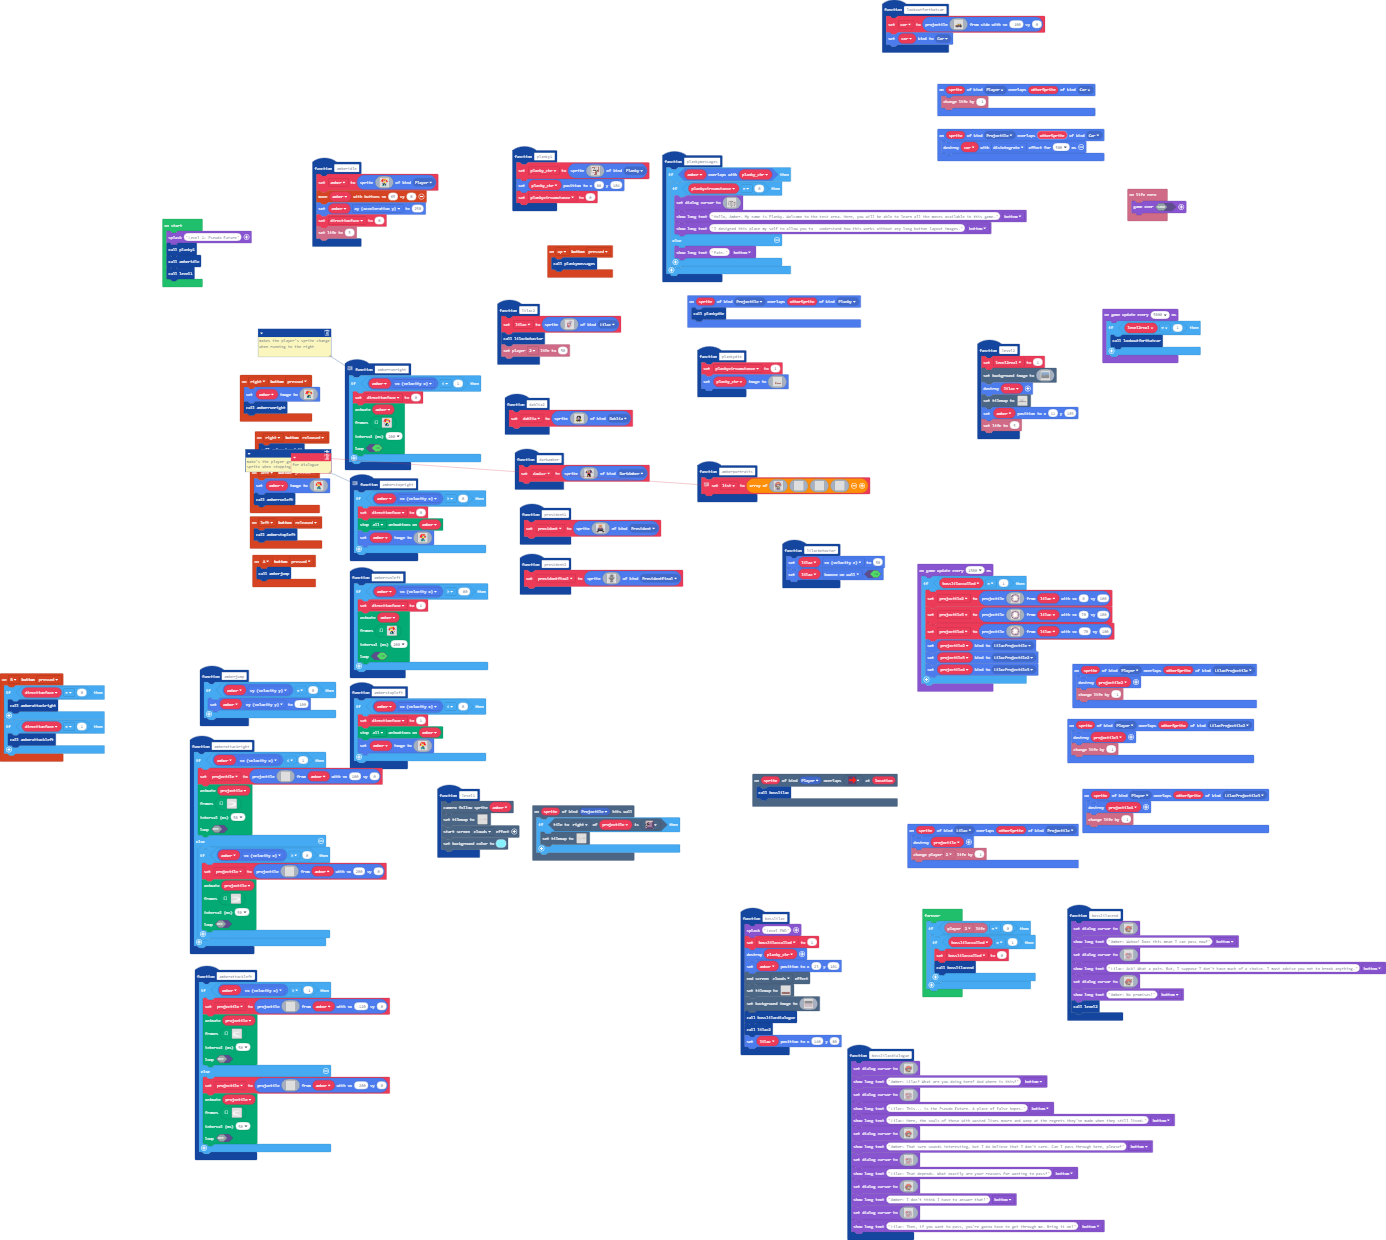
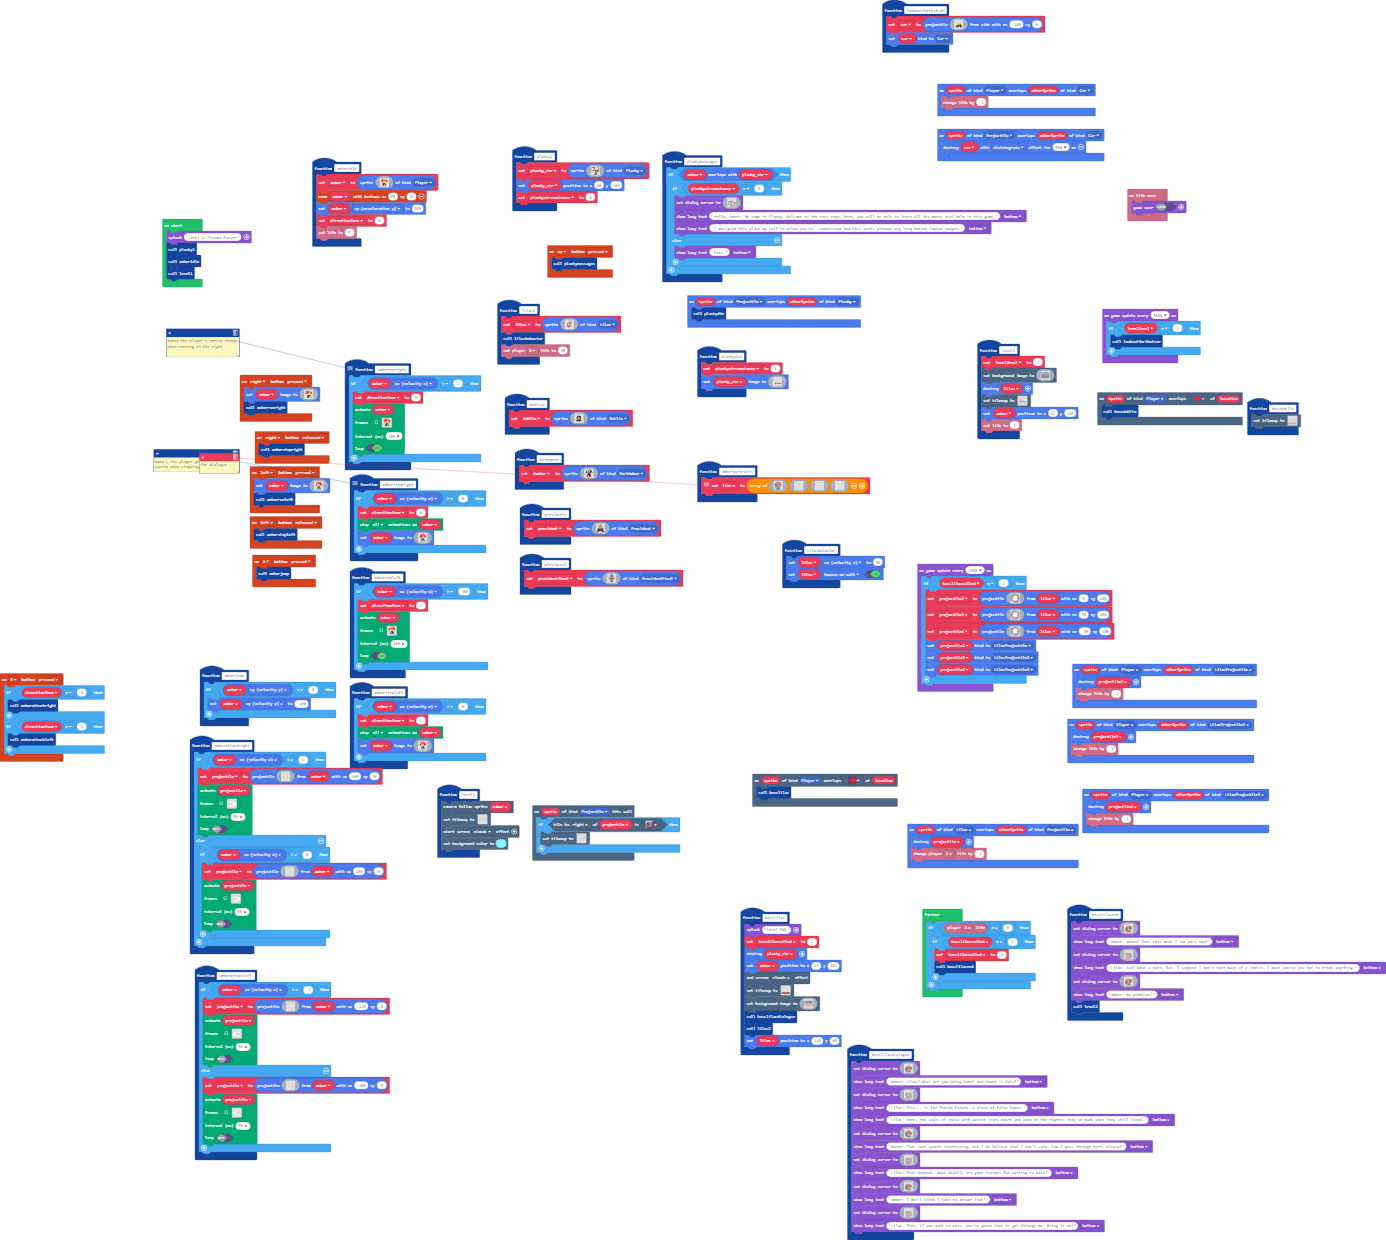
Update pxt.json, main.blocks, main.ts

diff --git a/main.ts b/main.ts
@@ -12,63 +12,6 @@ namespace SpriteKind {
 }
 namespace myTiles {
     //% blockIdentity=images._tile
-    export const tile0 = img`
-. . . . . . . . . . . . . . . . 
-. . . . . . . . . . . . . . . . 
-. . . . . . . . . . . . . . . . 
-. . . . . . . . . . . . . . . . 
-. . . . . . . . . . . . . . . . 
-. . . . . . . . . . . . . . . . 
-. . . . . . . . . . . . . . . . 
-. . . . . . . . . . . . . . . . 
-. . . . . . . . . . . . . . . . 
-. . . . . . . . . . . . . . . . 
-. . . . . . . . . . . . . . . . 
-. . . . . . . . . . . . . . . . 
-. . . . . . . . . . . . . . . . 
-. . . . . . . . . . . . . . . . 
-. . . . . . . . . . . . . . . . 
-. . . . . . . . . . . . . . . . 
-`
-    //% blockIdentity=images._tile
-    export const tile1 = img`
-5 5 5 5 5 5 5 5 5 5 5 5 5 5 5 5 
-5 5 5 7 7 7 6 6 7 7 7 7 7 7 5 5 
-5 6 7 6 c 6 c c 6 7 c 6 c 6 7 7 
-7 c 6 c e c e e c 6 c c e c 6 7 
-6 c c e e e e e e c e e e e c 6 
-c e e e e e e d e e e e e e e c 
-e e e e e e e f e e e e e e e e 
-e e d e e e e e e e e e d e e e 
-e e f e e e e e e e e e f e e e 
-e e e e e e e e e e e e e e e e 
-e e e e e e e e e e e e e e e e 
-e e e e e d e e e e e e e e e e 
-e e e e e f e e e e e e e e e e 
-e e e e e e e e e e d e e e e e 
-e e e e e e e e e e f e e e e e 
-e e e e e e e e e e e e e e e e 
-`
-    //% blockIdentity=images._tile
-    export const tile3 = img`
-e e e e d e e e e e e e e e e e 
-e e e e f e e e e e e e e d e e 
-e e e e e e e e e e e e e f e e 
-e e e e e e e e e e e e e e e e 
-e e e e e e e e e e e e e e e e 
-e e e e e e e d e e e e e e e e 
-e e e e e e e f e e e e e e e e 
-e e d e e e e e e e e e d e e e 
-e e f e e e e e e e e e f e e e 
-e e e e e e e e e e e e e e e e 
-e e e e e e e e e e e e e e e e 
-e e e e e d e e e e e e e e e e 
-e e e e e f e e e e e e e e e e 
-e e e e e e e e e e d e e e e e 
-e e e e e e e e e e f e e e e e 
-e e e e e e e e e e e e e e e e 
-`
-    //% blockIdentity=images._tile
     export const tile5 = img`
 c c c c c c c c c c c c c c c c 
 c c c c c c c c c c c c c c c c 
@@ -372,6 +315,82 @@ f f f f f f f f f f f f f f f f
 . . . . . . . . . 2 . . . . . . 
 . . . . . . . . . . . . . . . . 
 `
+    //% blockIdentity=images._tile
+    export const tile0 = img`
+. . . . . . . . . . . . . . . . 
+. . . . . . . . . . . . . . . . 
+. . . . . . . . . . . . . . . . 
+. . . . . . . . . . . . . . . . 
+. . . . . . . . . . . . . . . . 
+. . . . . . . . . . . . . . . . 
+. . . . . . . . . . . . . . . . 
+. . . . . . . . . . . . . . . . 
+. . . . . . . . . . . . . . . . 
+. . . . . . . . . . . . . . . . 
+. . . . . . . . . . . . . . . . 
+. . . . . . . . . . . . . . . . 
+. . . . . . . . . . . . . . . . 
+. . . . . . . . . . . . . . . . 
+. . . . . . . . . . . . . . . . 
+. . . . . . . . . . . . . . . . 
+`
+    //% blockIdentity=images._tile
+    export const tile1 = img`
+5 5 5 5 5 5 5 5 5 5 5 5 5 5 5 5 
+5 5 5 7 7 7 6 6 7 7 7 7 7 7 5 5 
+5 6 7 6 c 6 c c 6 7 c 6 c 6 7 7 
+7 c 6 c e c e e c 6 c c e c 6 7 
+6 c c e e e e e e c e e e e c 6 
+c e e e e e e d e e e e e e e c 
+e e e e e e e f e e e e e e e e 
+e e d e e e e e e e e e d e e e 
+e e f e e e e e e e e e f e e e 
+e e e e e e e e e e e e e e e e 
+e e e e e e e e e e e e e e e e 
+e e e e e d e e e e e e e e e e 
+e e e e e f e e e e e e e e e e 
+e e e e e e e e e e d e e e e e 
+e e e e e e e e e e f e e e e e 
+e e e e e e e e e e e e e e e e 
+`
+    //% blockIdentity=images._tile
+    export const tile3 = img`
+e e e e d e e e e e e e e e e e 
+e e e e f e e e e e e e e d e e 
+e e e e e e e e e e e e e f e e 
+e e e e e e e e e e e e e e e e 
+e e e e e e e e e e e e e e e e 
+e e e e e e e d e e e e e e e e 
+e e e e e e e f e e e e e e e e 
+e e d e e e e e e e e e d e e e 
+e e f e e e e e e e e e f e e e 
+e e e e e e e e e e e e e e e e 
+e e e e e e e e e e e e e e e e 
+e e e e e d e e e e e e e e e e 
+e e e e e f e e e e e e e e e e 
+e e e e e e e e e e d e e e e e 
+e e e e e e e e e e f e e e e e 
+e e e e e e e e e e e e e e e e 
+`
+    //% blockIdentity=images._tile
+    export const tile23 = img`
+1 1 1 1 1 1 1 1 1 1 1 1 1 1 1 1 
+1 1 1 1 1 1 1 1 1 1 1 1 1 1 1 1 
+d d d d d d d d d d d d d d d d 
+d d d d d d d d d d d d d d d d 
+b b b b b b b b b b b b b b b b 
+b b b b b b b b b b b b b b b b 
+c c c c c c c c c c c c c c c c 
+c c c c c c c c c c c c c c c c 
+c c c c c c c c c c c c c c c c 
+c c c c c c c c c c c c c c c c 
+b b b b b b b b b b b b b b b b 
+b b b b b b b b b b b b b b b b 
+d d d d d d d d d d d d d d d d 
+d d d d d d d d d d d d d d d d 
+1 1 1 1 1 1 1 1 1 1 1 1 1 1 1 1 
+1 1 1 1 1 1 1 1 1 1 1 1 1 1 1 1 
+`
 }
 function bosslilacend () {
     game.setDialogCursor(img`
@@ -596,7 +615,7 @@ function level1 () {
 . . . . . . . . 2 2 2 2 2 2 2 . . 2 2 2 2 2 2 2 2 2 2 2 2 . . . . . . . . . . . . . 2 2 2 2 2 2 2 2 . . . . . . . . . . . . . . . . . 2 . . . . . . . . . . . . . . . . . . 2 2 2 2 2 2 2 2 2 2 2 2 2 2 
 2 2 2 2 2 2 2 2 2 2 2 2 2 2 2 2 2 2 2 2 2 2 2 2 2 2 2 2 2 2 2 2 2 2 2 2 2 2 2 2 2 2 2 2 2 2 2 2 2 2 2 2 2 2 2 2 2 2 2 2 2 2 2 2 2 2 2 2 2 2 2 2 2 2 2 2 2 2 2 2 2 2 2 2 2 2 2 2 2 2 2 2 2 2 2 2 2 2 2 2 
 `,
-            [myTiles.tile0,myTiles.tile1,myTiles.tile3,myTiles.tile5,myTiles.tile6,myTiles.tile7,myTiles.tile8,myTiles.tile9,myTiles.tile11,myTiles.tile12,myTiles.tile13,myTiles.tile14,myTiles.tile15,myTiles.tile16,myTiles.tile17,myTiles.tile18,myTiles.tile19,myTiles.tile20,myTiles.tile22],
+            [myTiles.tile0,myTiles.tile1,myTiles.tile3,myTiles.tile5,myTiles.tile6,myTiles.tile7,myTiles.tile8,myTiles.tile9,myTiles.tile11,myTiles.tile12,myTiles.tile13,myTiles.tile14,myTiles.tile15,myTiles.tile16,myTiles.tile17,myTiles.tile18,myTiles.tile19,myTiles.tile20,myTiles.tile22,myTiles.tile23],
             TileScale.Sixteen
         ))
     effects.clouds.startScreenEffect()
@@ -689,6 +708,9 @@ function plankymessages () {
         }
     }
 }
+scene.onOverlapTile(SpriteKind.Player, myTiles.tile22, function (sprite, location) {
+    bossdahlia()
+})
 function president1 () {
     president = sprites.create(img`
 . . . . . . . . . . . . . . . . . . . . . . 
@@ -714,6 +736,24 @@ f . f f f . . . . . . . . . . . f f f . f .
 f f f f f . . . . . . . . . . . f f f f f . 
 . f f f f . . . . . . . . . . . f f f f . . 
 `, SpriteKind.President)
+}
+function bossdahlia () {
+    tiles.setTilemap(tiles.createTilemap(
[1 lines of base64/hex data omitted]
+            img`
+. . . . . . . . . . 
+. . . . . . . . . . 
+. . . . . . . . . . 
+. . . . . . . . . . 
+. . . . . . . . . . 
+. . . . . . . . . . 
+. . . . . . . . . . 
+2 2 2 2 2 2 2 2 2 2 
+2 2 2 2 2 2 2 2 2 2 
+`,
+            [myTiles.tile5,myTiles.tile6,myTiles.tile7,myTiles.tile8,myTiles.tile9,myTiles.tile11,myTiles.tile12,myTiles.tile13,myTiles.tile14,myTiles.tile15,myTiles.tile16,myTiles.tile17,myTiles.tile18,myTiles.tile19,myTiles.tile20,myTiles.tile22,myTiles.tile0,myTiles.tile1,myTiles.tile3,myTiles.tile23],
+            TileScale.Sixteen
+        ))
 }
 controller.B.onEvent(ControllerButtonEvent.Pressed, function () {
     if (directionface == 0) {
@@ -1084,7 +1124,7 @@ f f f f f f f f f f f f f f f f f f f f f f f f f f f f f f f f f f f f f f f f 
 2 2 2 2 2 2 2 2 2 2 2 2 2 2 2 2 2 2 2 2 2 2 2 2 2 2 2 2 2 2 2 2 2 2 2 2 2 2 2 2 2 2 2 2 2 2 2 2 2 2 
 2 2 2 2 2 2 2 2 2 2 2 2 2 2 2 2 2 2 2 2 2 2 2 2 2 2 2 2 2 2 2 2 2 2 2 2 2 2 2 2 2 2 2 2 2 2 2 2 2 2 
 `,
-            [myTiles.tile0,myTiles.tile1,myTiles.tile3,myTiles.tile5,myTiles.tile6,myTiles.tile7,myTiles.tile8,myTiles.tile9,myTiles.tile11,myTiles.tile12,myTiles.tile13,myTiles.tile14,myTiles.tile15,myTiles.tile16,myTiles.tile17,myTiles.tile18,myTiles.tile19,myTiles.tile20,myTiles.tile22],
+            [myTiles.tile0,myTiles.tile1,myTiles.tile3,myTiles.tile5,myTiles.tile6,myTiles.tile7,myTiles.tile8,myTiles.tile9,myTiles.tile11,myTiles.tile12,myTiles.tile13,myTiles.tile14,myTiles.tile15,myTiles.tile16,myTiles.tile17,myTiles.tile18,myTiles.tile19,myTiles.tile20,myTiles.tile22,myTiles.tile23],
             TileScale.Sixteen
         ))
     amber.setPosition(11, 103)
@@ -1593,7 +1633,7 @@ scene.onHitWall(SpriteKind.Projectile, function (sprite) {
 . . . . . . . . 2 2 2 2 2 2 2 . . 2 2 2 2 2 2 2 2 2 2 2 2 . . . . . . . . . . . . . 2 2 2 2 2 2 2 2 . . . . . . . . . . . . . . . . . . . . . . . . . . . . . . . . . . . . 2 2 2 2 2 2 2 2 2 2 2 2 2 2 
 2 2 2 2 2 2 2 2 2 2 2 2 2 2 2 2 2 2 2 2 2 2 2 2 2 2 2 2 2 2 2 2 2 2 2 2 2 2 2 2 2 2 2 2 2 2 2 2 2 2 2 2 2 2 2 2 2 2 2 2 2 2 2 2 2 2 2 2 2 2 2 2 2 2 2 2 2 2 2 2 2 2 2 2 2 2 2 2 2 2 2 2 2 2 2 2 2 2 2 2 
 `,
-            [myTiles.tile0,myTiles.tile1,myTiles.tile3,myTiles.tile5,myTiles.tile6,myTiles.tile7,myTiles.tile8,myTiles.tile9,myTiles.tile11,myTiles.tile12,myTiles.tile13,myTiles.tile14,myTiles.tile15,myTiles.tile16,myTiles.tile17,myTiles.tile18,myTiles.tile19,myTiles.tile20,myTiles.tile22],
+            [myTiles.tile0,myTiles.tile1,myTiles.tile3,myTiles.tile5,myTiles.tile6,myTiles.tile7,myTiles.tile8,myTiles.tile9,myTiles.tile11,myTiles.tile12,myTiles.tile13,myTiles.tile14,myTiles.tile15,myTiles.tile16,myTiles.tile17,myTiles.tile18,myTiles.tile19,myTiles.tile20,myTiles.tile22,myTiles.tile23],
             TileScale.Sixteen
         ))
     }
@@ -2216,7 +2256,7 @@ function bosslilac () {
 2 2 2 2 2 2 2 2 2 2 
 2 2 2 2 2 2 2 2 2 2 
 `,
-            [myTiles.tile0,myTiles.tile1,myTiles.tile3,myTiles.tile5,myTiles.tile6,myTiles.tile7,myTiles.tile8,myTiles.tile9,myTiles.tile11,myTiles.tile12,myTiles.tile13,myTiles.tile14,myTiles.tile15,myTiles.tile16,myTiles.tile17,myTiles.tile18,myTiles.tile19,myTiles.tile20,myTiles.tile22],
+            [myTiles.tile0,myTiles.tile1,myTiles.tile3,myTiles.tile5,myTiles.tile6,myTiles.tile7,myTiles.tile8,myTiles.tile9,myTiles.tile11,myTiles.tile12,myTiles.tile13,myTiles.tile14,myTiles.tile15,myTiles.tile16,myTiles.tile17,myTiles.tile18,myTiles.tile19,myTiles.tile20,myTiles.tile22,myTiles.tile23],
             TileScale.Sixteen
         ))
     scene.setBackgroundImage(img`
